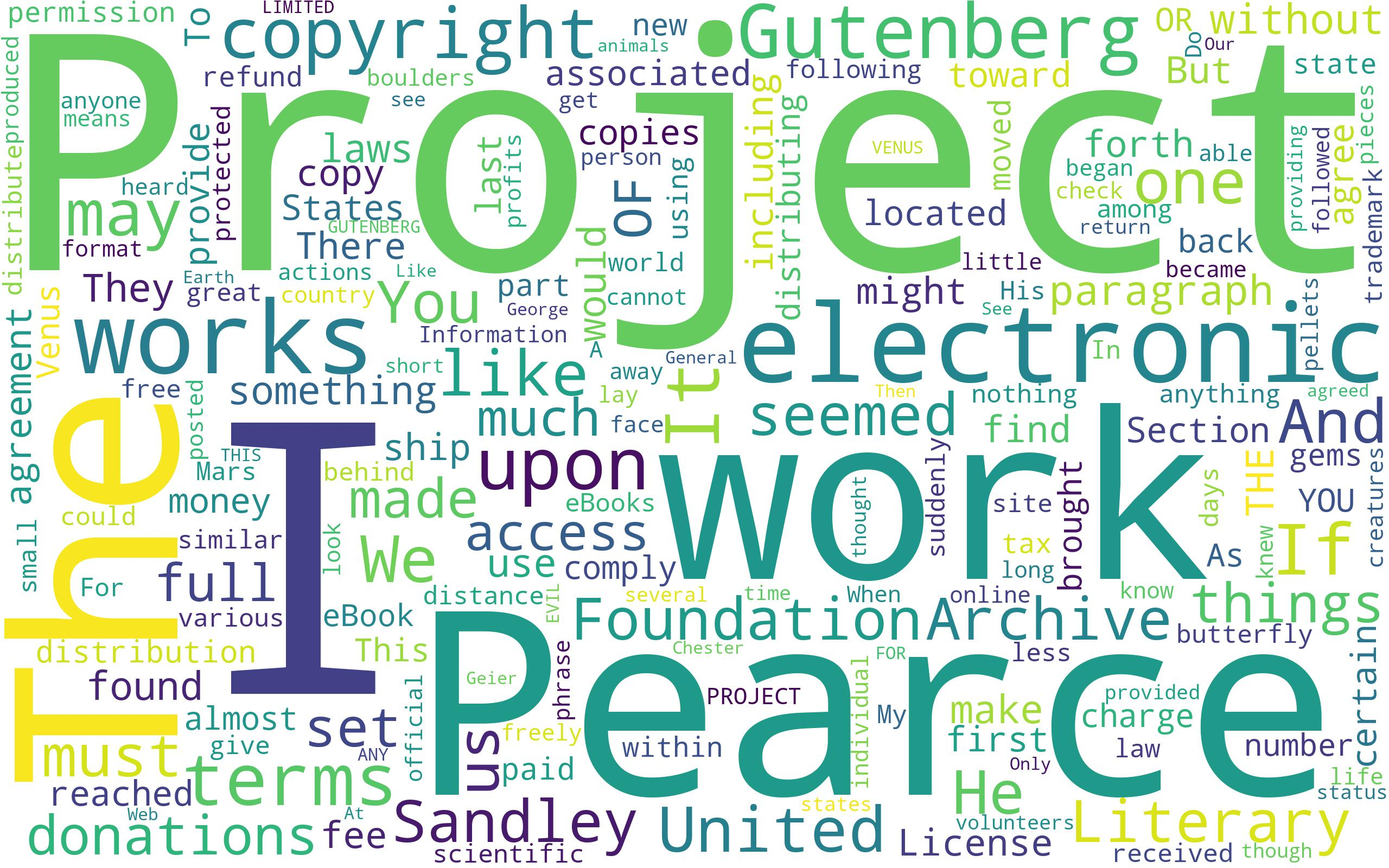
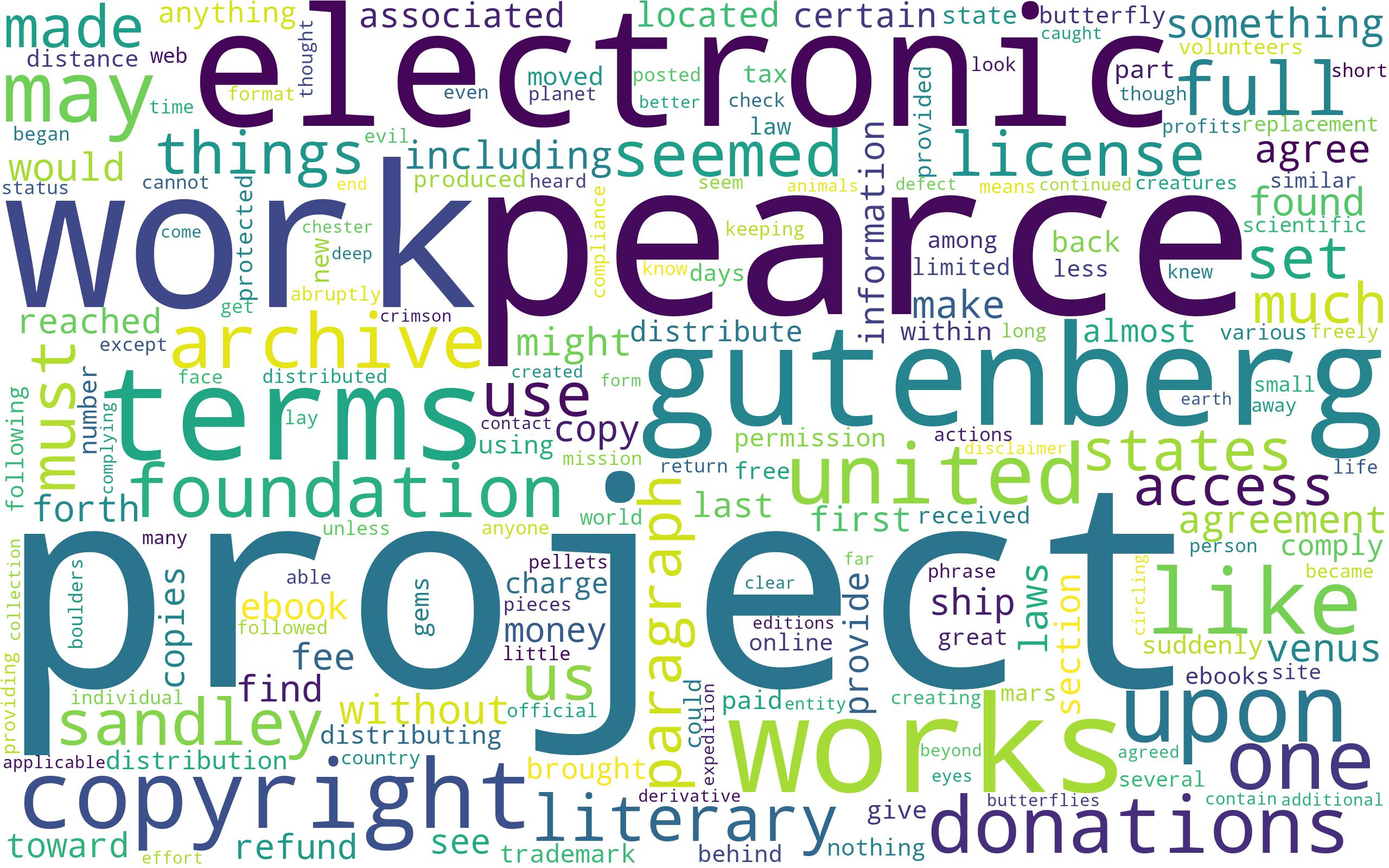
remove uninteresting words

diff --git a/generate_word_cloud.py b/generate_word_cloud.py
@@ -1,5 +1,4 @@
-from wordcloud import WordCloud,STOPWORDS
-import matplotlib.pyplot as plt
+from wordcloud import WordCloud
 import argparse
 
 uninteresting_words = ["i", "me", "my", "myself", "we", "our", "ours", "ourselves", "you", "your", "yours", "yourself", "yourselves", "he", "him", "his", "himself", "she", "her", "hers", "herself", "it", "its", "itself", "they", "them", "their", "theirs", "themselves", "what", "which", "who", "whom", "this", "that", "these", "those", "am", "is", "are", "was", "were", "be", "been", "being", "have", "has", "had", "having", "do", "does", "did", "doing", "a", "an", "the", "and", "but", "if", "or", "because", "as", "until", "while", "of", "at", "by", "for", "with", "about", "against", "between", "into", "through", "during", "before", "after", "above", "below", "to", "from", "up", "down", "in", "out", "on", "off", "over", "under", "again", "further", "then", "once", "here", "there", "when", "where", "why", "how", "all", "any", "both", "each", "few", "more", "most", "other", "some", "such", "no", "nor", "not", "only", "own", "same", "so", "than", "too", "very", "s", "t", "can", "will", "just", "don", "should", "now"]
@@ -7,12 +6,12 @@ parser = argparse.ArgumentParser("description='file containing words to create c
 parser.add_argument('filename')
 args = parser.parse_args()
 words_file = open(args.filename, "r")
-stopwords = set(STOPWORDS)
+
 word_array = []
 word_count = {}
 for sentence in words_file:
     for word in sentence.split():
-        word.lower()
+        word = word.lower()
 
         if (word.isalpha() )and (word not in uninteresting_words):
             word_array.append(word)
